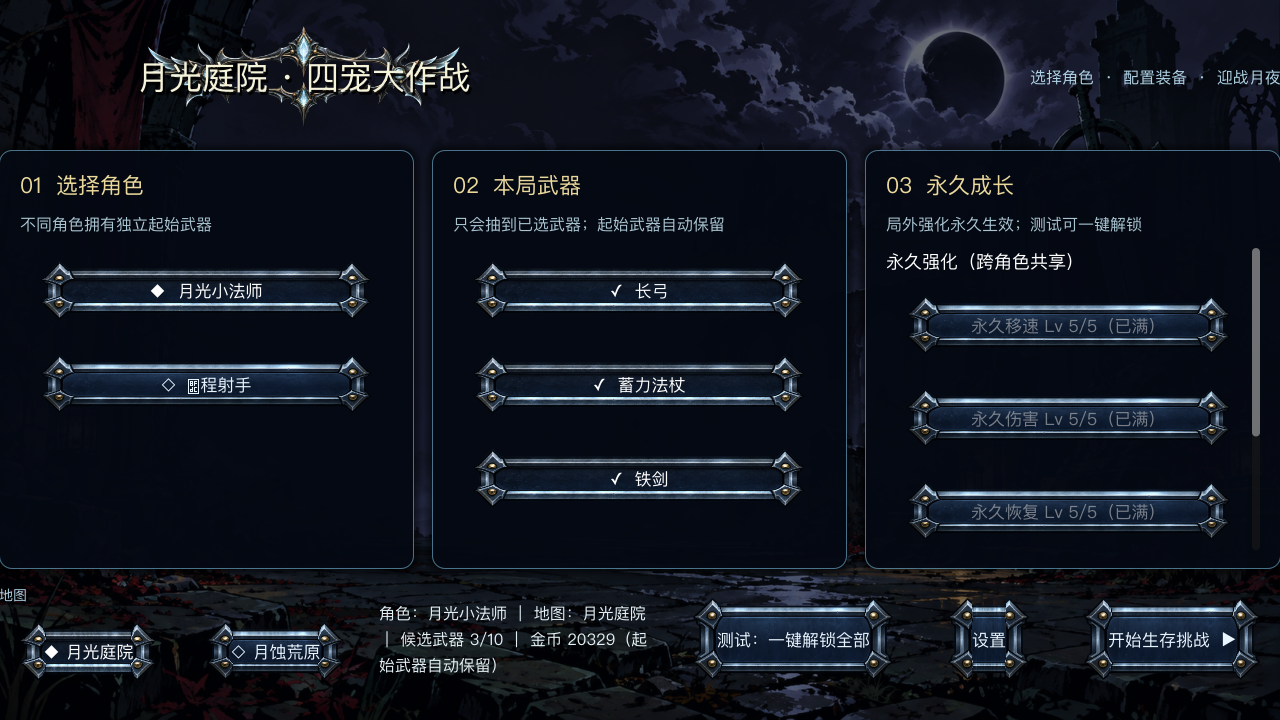
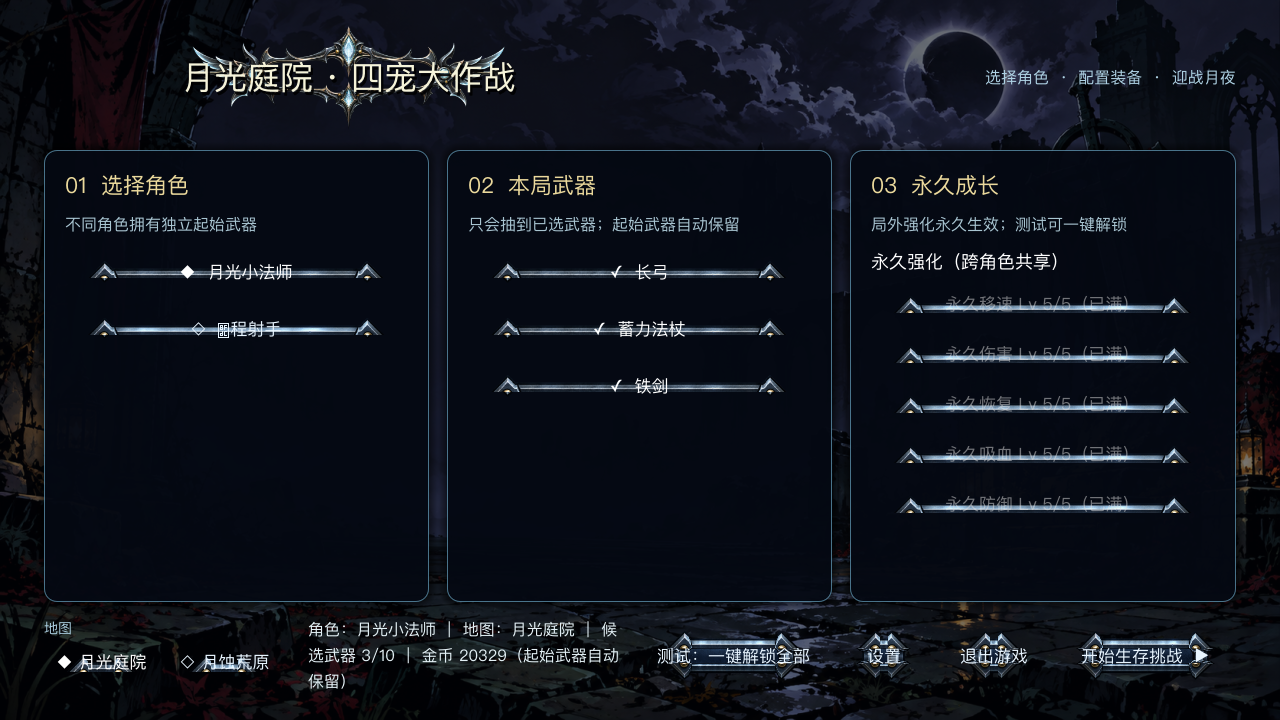
feat: 主菜单与暂停菜单新增退出游戏

diff --git a/godot_survivor_codex_spec/docs/CHANGELOG.md b/godot_survivor_codex_spec/docs/CHANGELOG.md
@@ -302,6 +302,12 @@
 - 仍有 11 个通用属性升级暂无对应素材（fire_rate/projectile_count/projectile_size/projectile_speed/repeat_shot/bonus_projectile/max_health/heal/dodge/immune/pierce），保留空图标并列入待生成清单。
 - 修正 `.tres` 中 `[ext_resource]` 误置于 `[resource]` 之后的解析错误；解析、启动与 68 项快速冒烟、120 秒 soak 通过。
 
+### 退出游戏选项（2026-09-25）
+
+- 暂停菜单（设置面板）与主菜单底部各新增「退出游戏」按钮，点击调用 `get_tree().quit()`。
+- 收窄按钮样式的内容边距，修复新增按钮后主菜单底部溢出。
+- 解析、启动与 68 项快速冒烟、120 秒 soak 通过；实拍 `art_review/v2_settings_preview.png`、`v2_main_menu_preview.png`。
+
 ### 四宠庭院与武器扩展（2026-09-20）
 
 - 新增虎妞、黑豹、小四、小七四帧动画；虎妞二次修订为小眼绷脸，黑豹引用原图。

diff --git a/godot_survivor_codex_spec/docs/TASKS.md b/godot_survivor_codex_spec/docs/TASKS.md
@@ -12,6 +12,13 @@
 
 验证：Godot 4.7.1 `--headless --path . --editor --quit` 解析 0；`--quit-after 300` 启动 0；`tests/smoke` 68 项快速冒烟 0；120 秒 soak 0。专项见 `equipment_display_smoke_test.gd`、`settings_panel_smoke_test.gd`、`coin_fallback_smoke_test.gd`、`map_selection_smoke_test.gd`。实拍 `art_review/v2_equipment_bar_preview.png`、`v2_settings_preview.png`、`v2_main_menu_preview.png`。
 
+## 用户追加：退出游戏选项（2026-09-25）
+
+- [x] 暂停菜单（设置面板）新增「退出游戏」
+- [x] 主菜单底部新增「退出游戏」
+- [x] 收窄按钮样式内容边距修复主菜单溢出
+- [x] 解析、启动、68 项快速冒烟、120 秒 soak 通过；实拍设置面板与主菜单
+
 ## 用户追加：升级卡图标与排版（2026-09-25）
 
 - [x] 修复升级卡带图标时的排版错乱（自绘卡面：图标 + 分类标题 + 描述）
